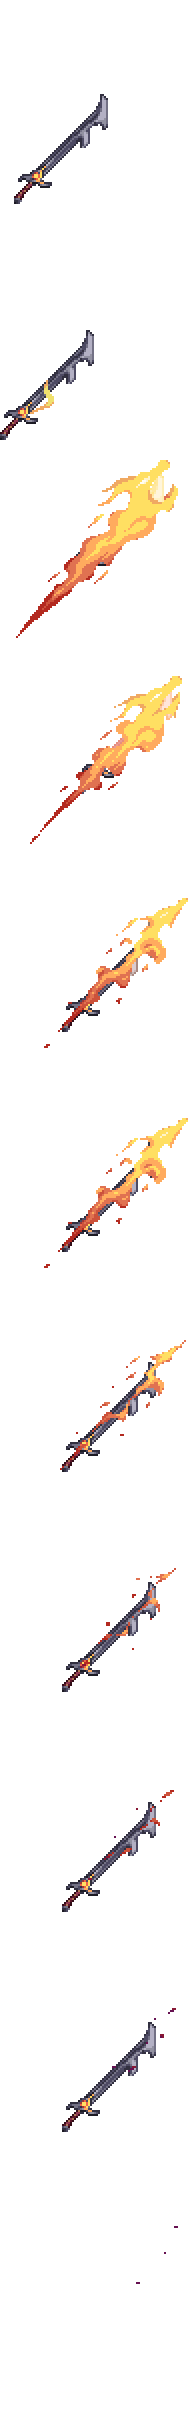
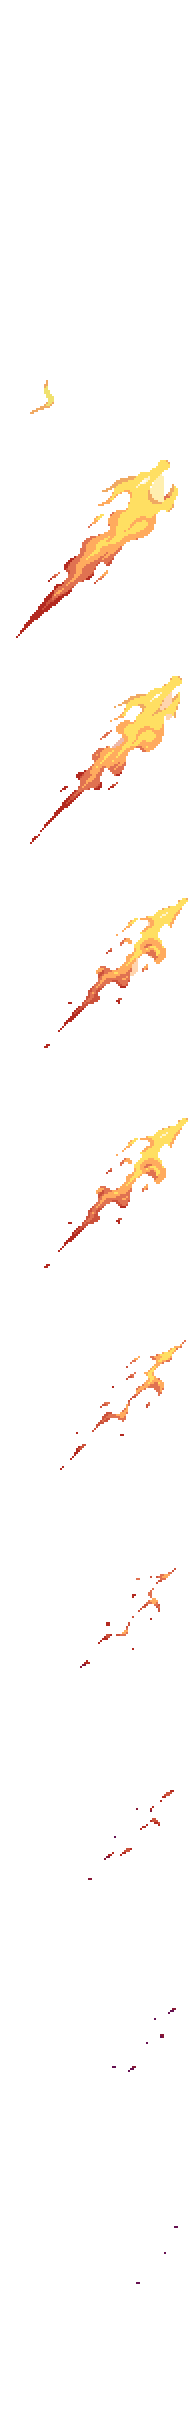
Plasma Whirlwind and Nightbringer Thrust Glowmasks

diff --git a/Projectiles/Melee/Runeterra/PlasmaWhirlwindThrust.cs b/Projectiles/Melee/Runeterra/PlasmaWhirlwindThrust.cs
@@ -1,4 +1,5 @@
 using Microsoft.Xna.Framework;
+using Microsoft.Xna.Framework.Graphics;
 using Terraria;
 using Terraria.Audio;
 using Terraria.DataStructures;
@@ -99,6 +100,7 @@ namespace tsorcRevamp.Projectiles.Melee.Runeterra
             {
                 Projectile.frame = 0;
             }
+            Lighting.AddLight(Projectile.Center, Color.Cyan.ToVector3() * 0.78f);
         }
         public override bool ShouldUpdatePosition()
         {
@@ -122,6 +124,30 @@ namespace tsorcRevamp.Projectiles.Melee.Runeterra
             Vector2 end = start + Projectile.velocity * 17f * player.GetAdjustedItemScale(player.HeldItem);
             float collisionPoint = 0f;
             return Collision.CheckAABBvLineCollision(targetHitbox.TopLeft(), targetHitbox.Size(), start, end, CollisionWidth, ref collisionPoint);
+        }        
+        public static Texture2D texture;
+        public static Texture2D glowTexture;
+        public override bool PreDraw(ref Color lightColor)
+        {
+            SpriteEffects spriteEffects = SpriteEffects.None;
+
+            if (Main.player[Projectile.owner].direction == 1)
+            {
+            }
+            else
+            {
+                spriteEffects = SpriteEffects.FlipHorizontally;
+            }
+            texture = (Texture2D)ModContent.Request<Texture2D>(Projectile.ModProjectile.Texture, ReLogic.Content.AssetRequestMode.ImmediateLoad);
+            glowTexture = (Texture2D)ModContent.Request<Texture2D>(Projectile.ModProjectile.Texture + "Glowmask", ReLogic.Content.AssetRequestMode.ImmediateLoad);
+            int frameHeight = ((Texture2D)Terraria.GameContent.TextureAssets.Projectile[Projectile.type]).Height / Main.projFrames[Projectile.type];
+            int startY = frameHeight * Projectile.frame;
+            Rectangle sourceRectangle = new Rectangle(0, startY, texture.Width, frameHeight);
+            Vector2 origin = sourceRectangle.Size() / 2f;
+            Main.EntitySpriteDraw(texture, Projectile.Center - Main.screenPosition + new Vector2(0f, Projectile.gfxOffY), sourceRectangle, lightColor, Projectile.rotation, origin, Projectile.scale, spriteEffects, 0);
+
+
+            return false;
         }
         public override void OnHitNPC(NPC target, NPC.HitInfo hit, int damageDone)
         {

diff --git a/Projectiles/Melee/Runeterra/NightbringerThrust.cs b/Projectiles/Melee/Runeterra/NightbringerThrust.cs
@@ -105,7 +105,7 @@ namespace tsorcRevamp.Projectiles.Melee.Runeterra
             {
                 Projectile.frame = 0;
             }
-            Lighting.AddLight(Projectile.Center, Color.Gold.ToVector3() * 0.78f);
+            Lighting.AddLight(Projectile.Center, Color.Gold.ToVector3() * 1.4f);
         }
         public override bool ShouldUpdatePosition()
         {
@@ -130,7 +130,7 @@ namespace tsorcRevamp.Projectiles.Melee.Runeterra
             float collisionPoint = 0f;
             return Collision.CheckAABBvLineCollision(targetHitbox.TopLeft(), targetHitbox.Size(), start, end, CollisionWidth, ref collisionPoint);
         }
-        /*public static Texture2D texture;
+        public static Texture2D texture;
         public static Texture2D glowTexture;
         public override bool PreDraw(ref Color lightColor)
         {
@@ -139,9 +139,9 @@ namespace tsorcRevamp.Projectiles.Melee.Runeterra
             if (Main.player[Projectile.owner].direction == 1)
             {
             }
-            else if (Main.player[Projectile.owner].direction != 1)
+            else
             {
-                spriteEffects = SpriteEffects.FlipVertically;
+                spriteEffects = SpriteEffects.FlipHorizontally;
             }
             texture = (Texture2D)ModContent.Request<Texture2D>(Projectile.ModProjectile.Texture, ReLogic.Content.AssetRequestMode.ImmediateLoad);
             glowTexture = (Texture2D)ModContent.Request<Texture2D>(Projectile.ModProjectile.Texture + "Glowmask", ReLogic.Content.AssetRequestMode.ImmediateLoad);
@@ -153,7 +153,7 @@ namespace tsorcRevamp.Projectiles.Melee.Runeterra
 
 
             return false;
-        }*/
+        }
         public override void OnHitNPC(NPC target, NPC.HitInfo hit, int damageDone)
         {
             Player player = Main.player[Projectile.owner];

diff --git a/Items/Weapons/Melee/Runeterra/RuneterraKatanaItem.cs b/Items/Weapons/Melee/Runeterra/RuneterraKatanaItem.cs
@@ -82,7 +82,7 @@ namespace tsorcRevamp.Items.Weapons.Melee.Runeterra
                 Dust TornadoReady = Dust.NewDustDirect(player.VisualPosition, player.width, player.height, TornadoReadyDustID);
                 if (Tier == 3)
                 {
-                    TornadoReady.scale = 2;
+                    TornadoReady.scale = 1.25f;
                 }
             }
             if (Tier > 1)

diff --git a/Projectiles/Melee/Runeterra/NightbringerSpin.cs b/Projectiles/Melee/Runeterra/NightbringerSpin.cs
@@ -192,6 +192,7 @@ namespace tsorcRevamp.Projectiles.Melee.Runeterra
                     Projectile.frame = 0;
                 }
             }
+            Lighting.AddLight(Projectile.Center, Color.Gold.ToVector3() * 4f);
         }
         public override void CutTiles()
         {

diff --git a/Projectiles/Melee/Runeterra/PlasmaWhirlwindSpin.cs b/Projectiles/Melee/Runeterra/PlasmaWhirlwindSpin.cs
@@ -192,6 +192,7 @@ namespace tsorcRevamp.Projectiles.Melee.Runeterra
                     Projectile.frame = 0;
                 }
             }
+            Lighting.AddLight(Projectile.Center, Color.Cyan.ToVector3() * 3f);
         }
         public override void CutTiles()
         {
